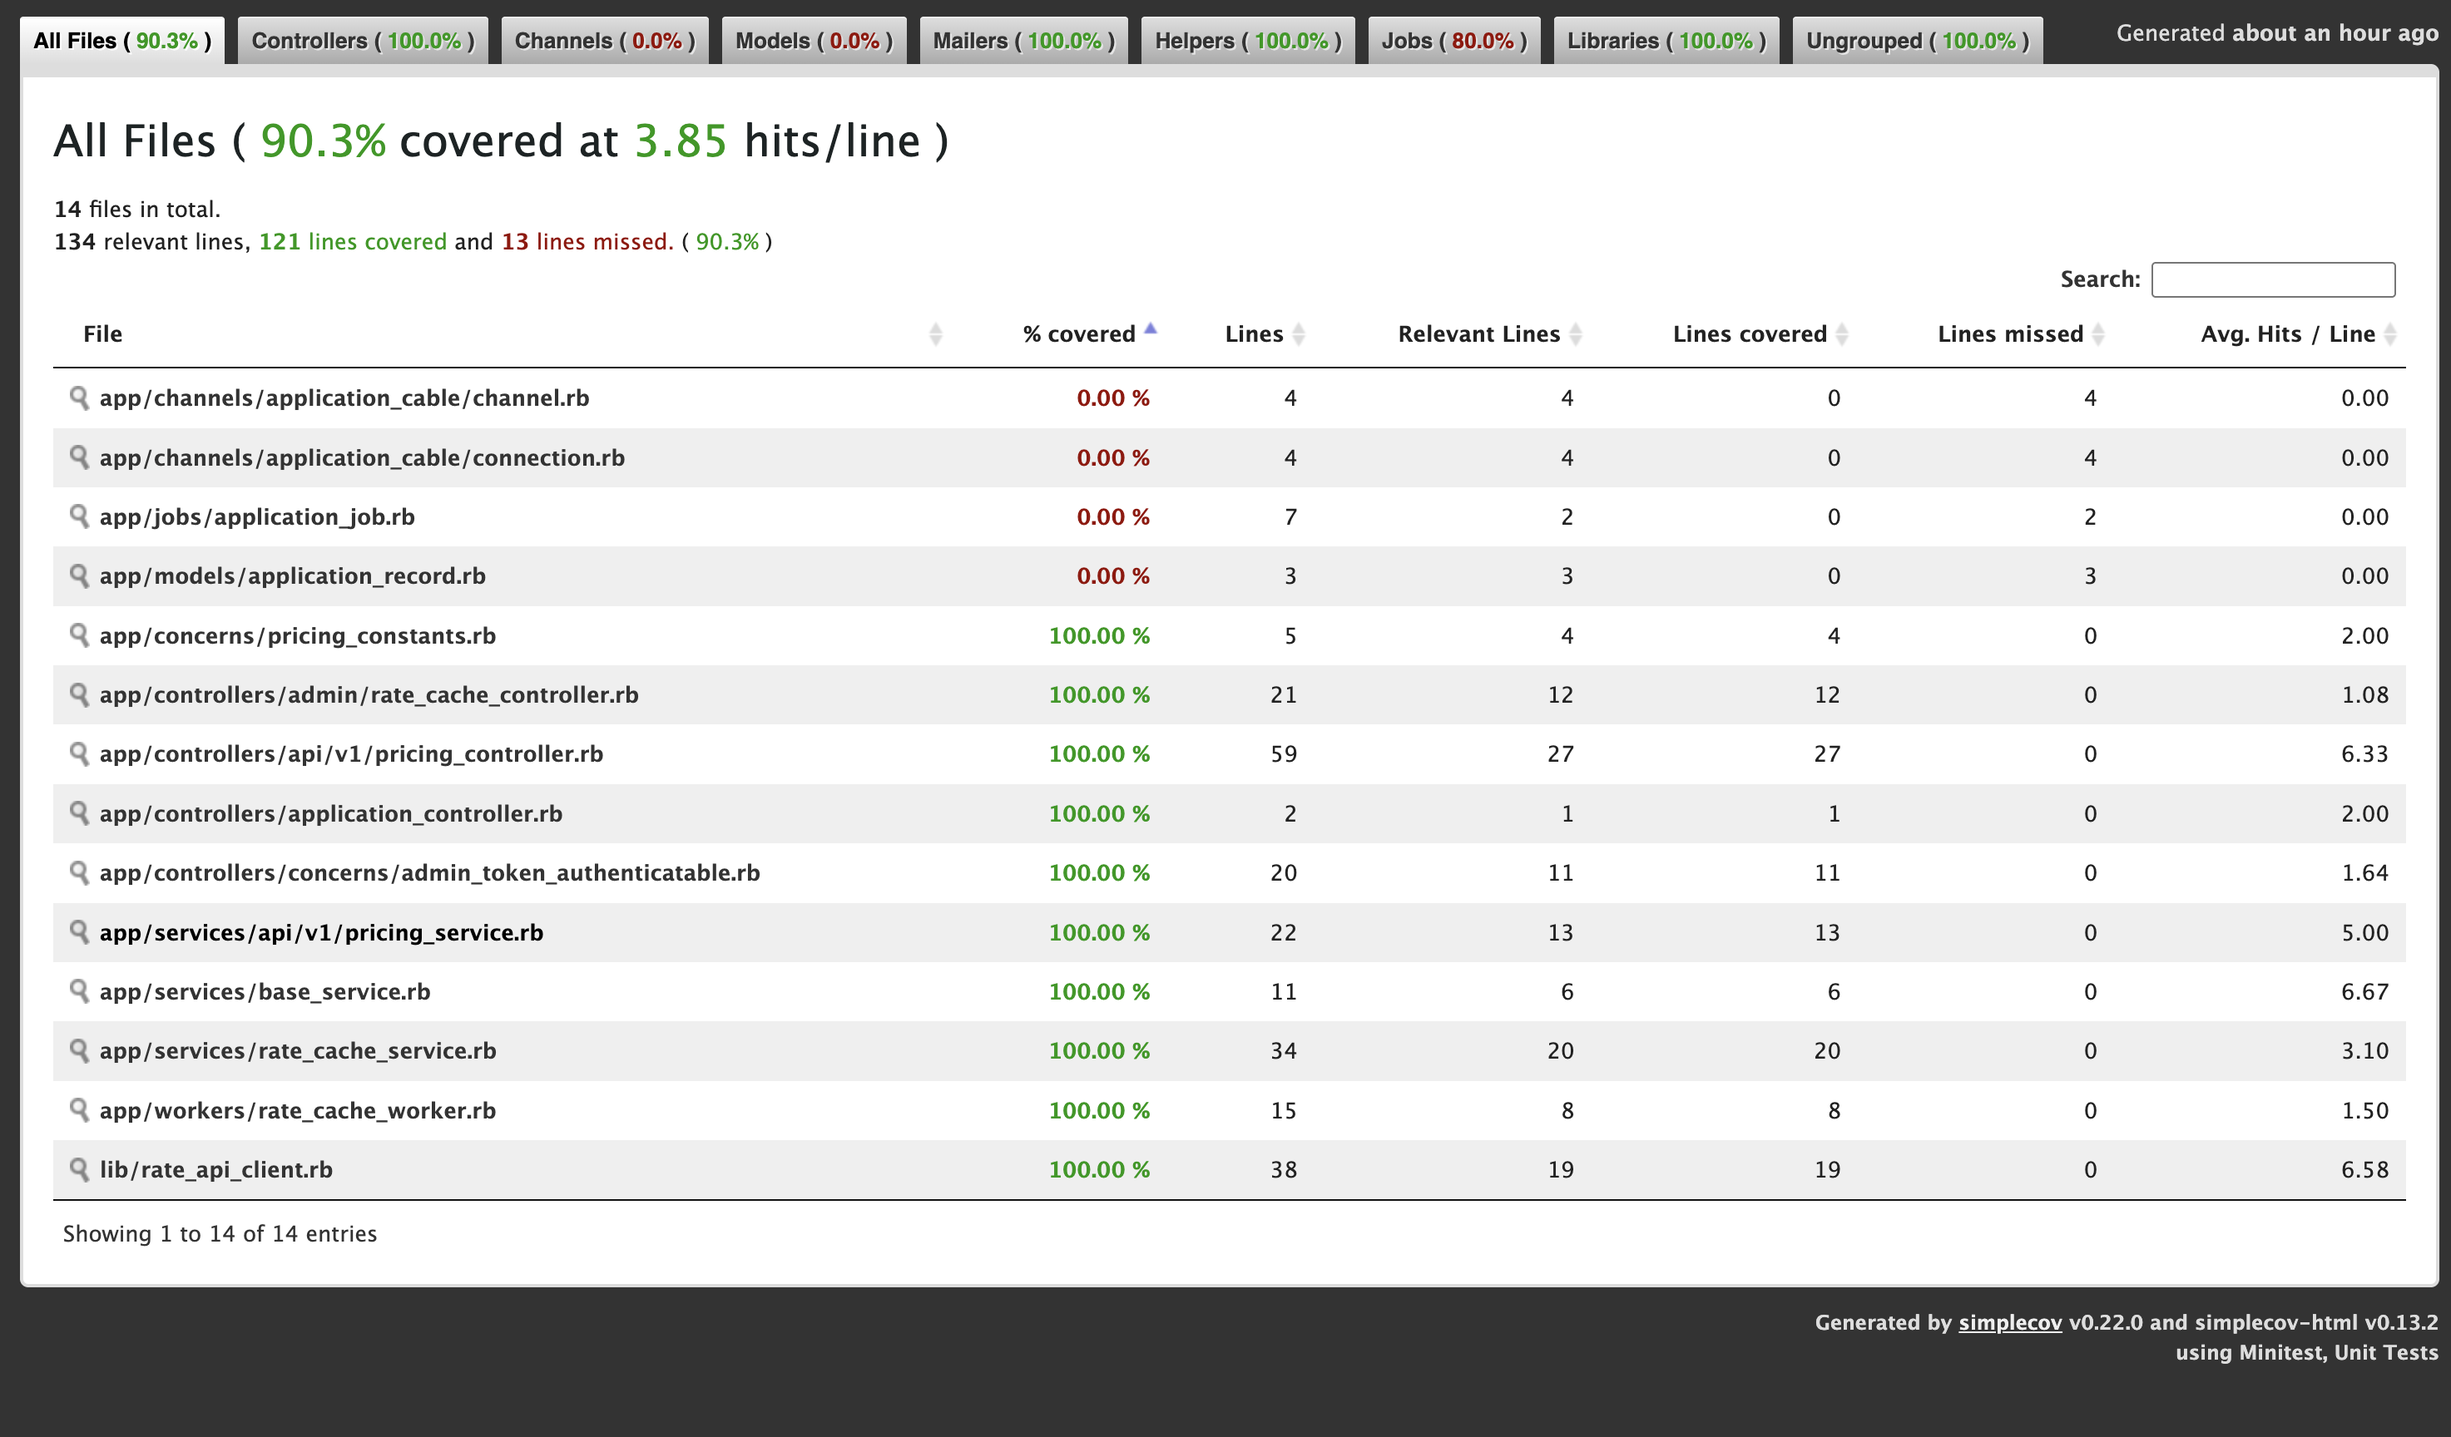
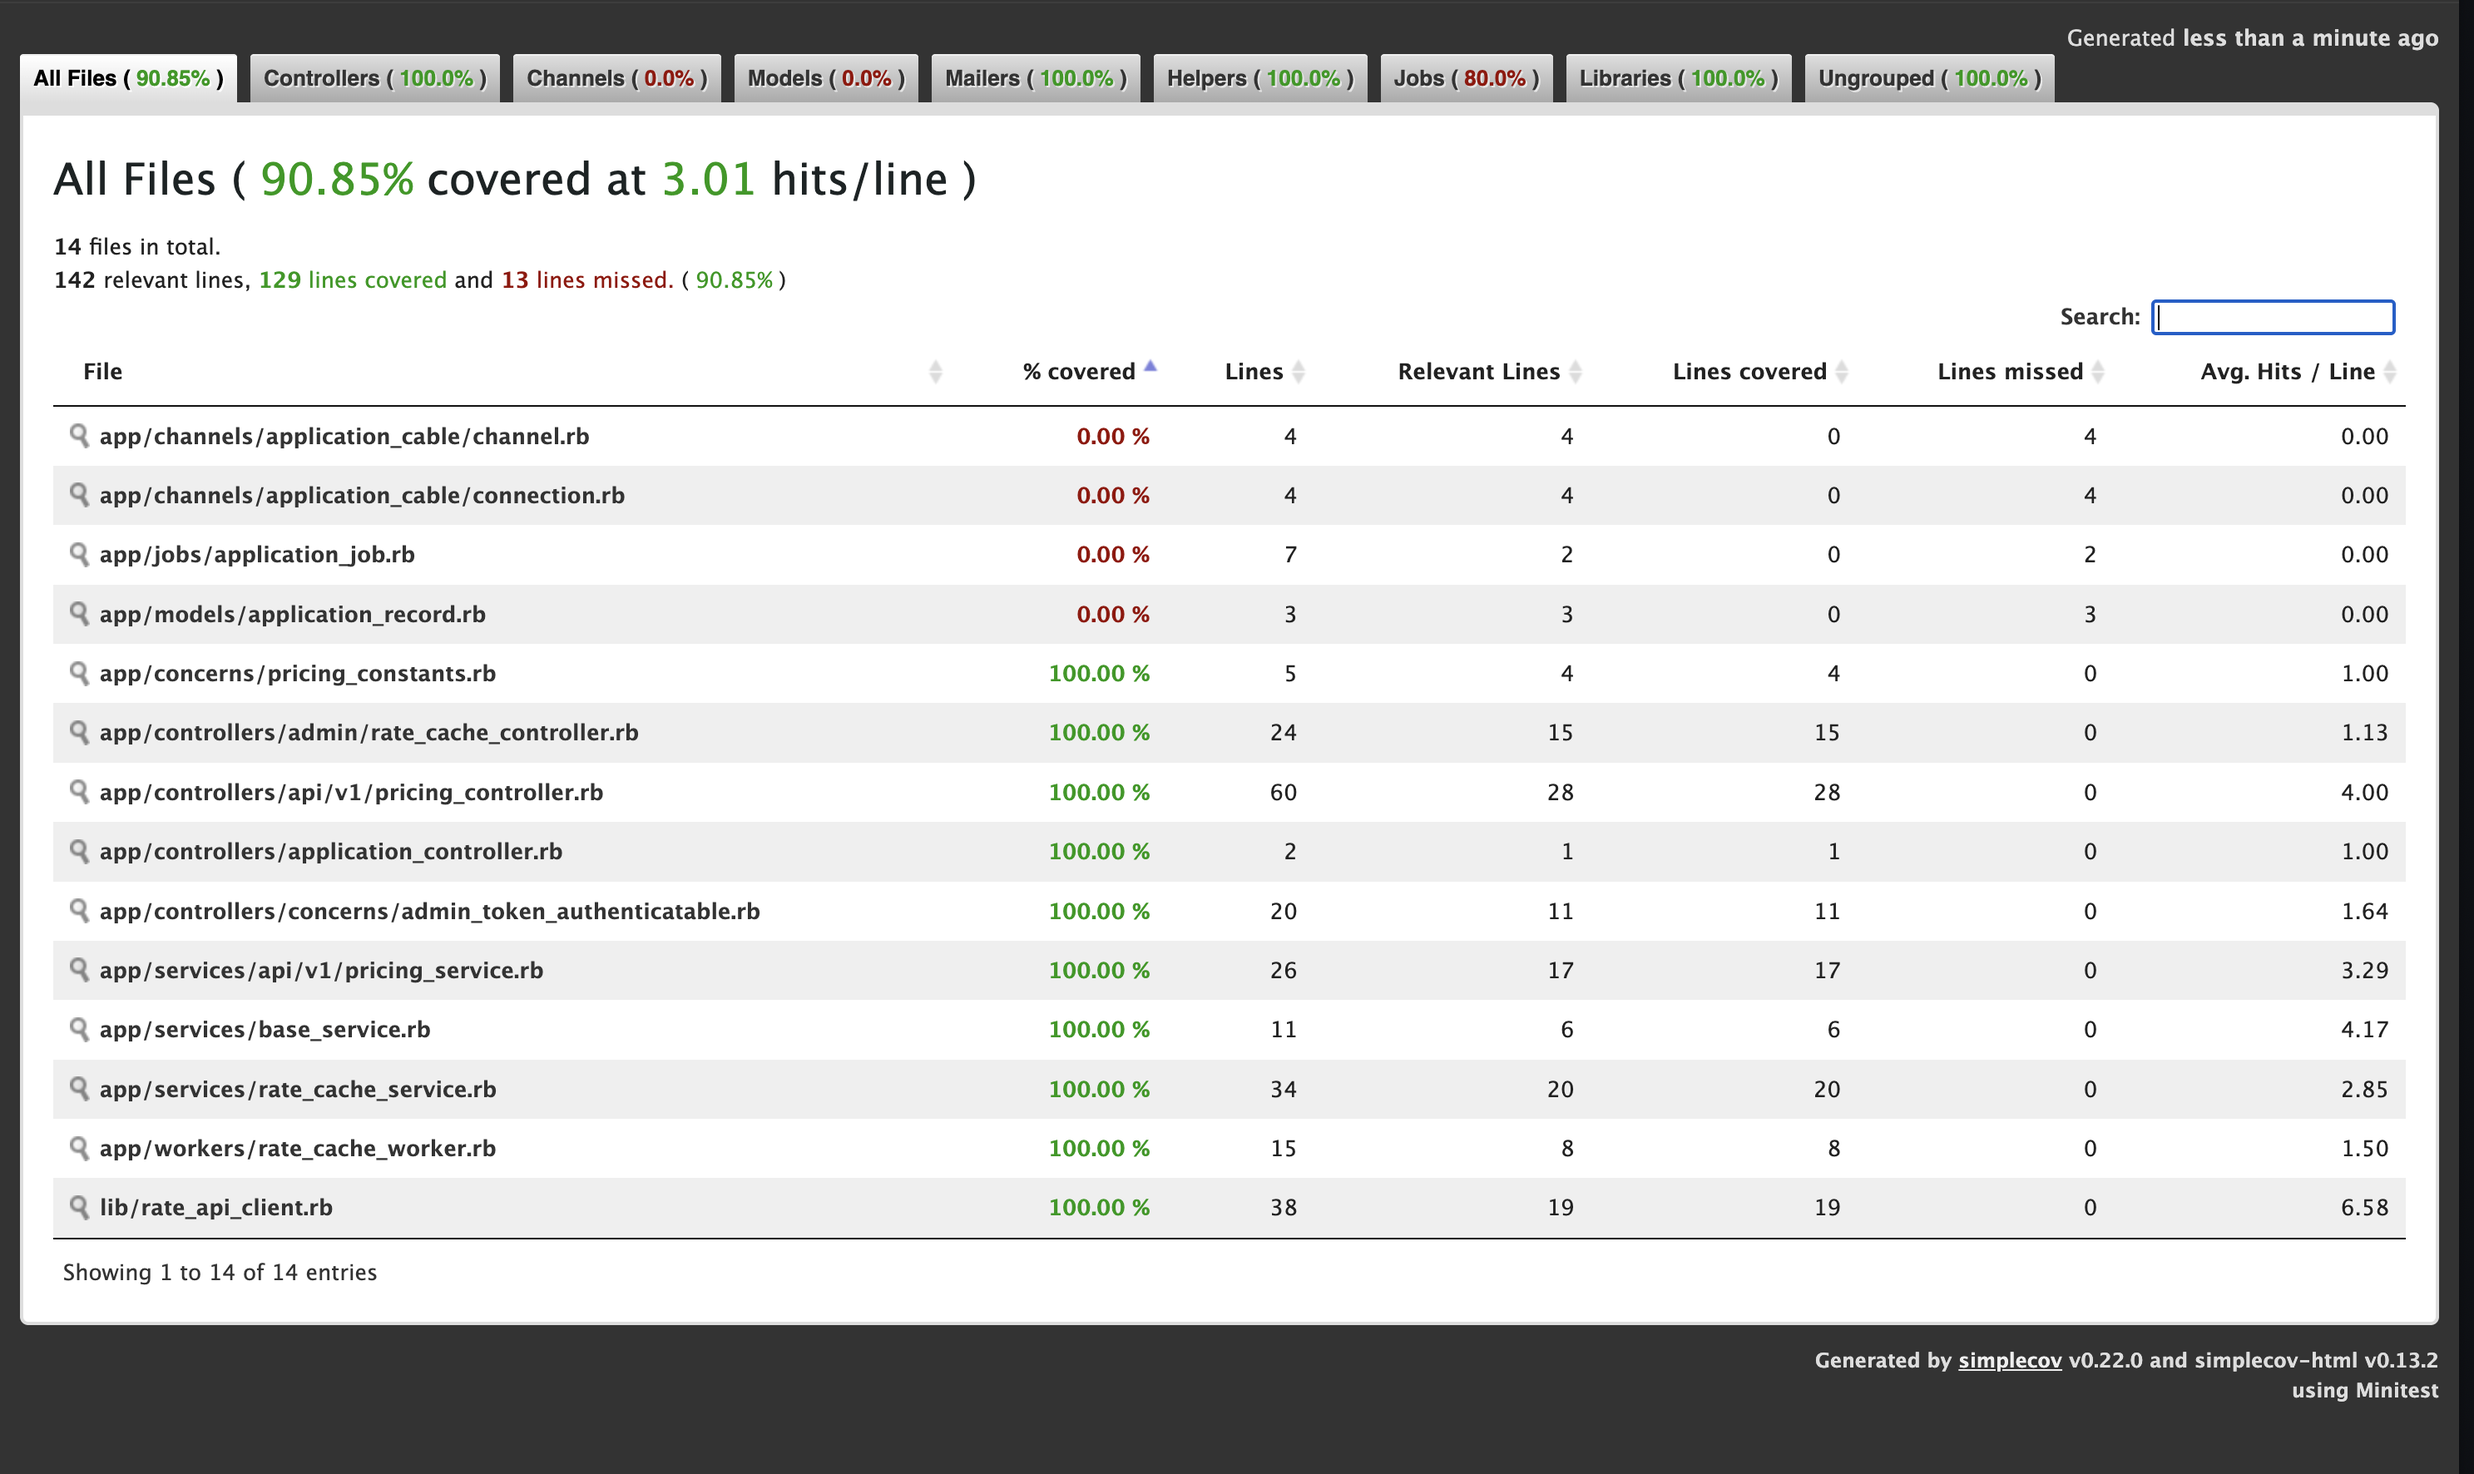
feat(pricing): add some logging

diff --git a/app/services/api/v1/pricing_service.rb b/app/services/api/v1/pricing_service.rb
@@ -7,15 +7,19 @@ module Api::V1
     end
 
     def run
+      Rails.logger.info("[Api::V1::PricingService] Pricing Lookup: #{@period}.#{@hotel}.#{@room}")
       rate_cache_service = RateCacheService.new
       rate = rate_cache_service.get_rate(@period, @hotel, @room)
 
+      Rails.logger.info("[Api::V1::PricingService] Pricing Result for #{@period}.#{@hotel}.#{@room}: #{rate}")
       if rate
         @result = rate
       else
+        Rails.logger.info("[Api::V1::PricingService] Pricing Result for #{@period}.#{@hotel}.#{@room}: #{rate}")
         errors << "RATE_NOT_FOUND"
       end
     rescue StandardError => e
+      Rails.logger.info("[Api::V1::PricingService] Pricing Result for #{@period}.#{@hotel}.#{@room}: #{rate}")
       errors << e.message
     end
   end

diff --git a/app/controllers/admin/rate_cache_controller.rb b/app/controllers/admin/rate_cache_controller.rb
@@ -5,13 +5,16 @@ module Admin
     include AdminTokenAuthenticatable
 
     def refresh
+      Rails.logger.info("[Admin::RateCacheController] Begin Resetting Rate Cache")
       # Reset the Queue
       Sidekiq::Queue.new.clear
       Sidekiq::ScheduledSet.new.clear
       Sidekiq::RetrySet.new.clear
       
+      Rails.logger.info("[Admin::RateCacheController] Sidekiq queues cleared, Now Reseting Rate Cache")
       RateCacheService.new.set_rate
       
+      Rails.logger.info("[Admin::RateCacheController] Rate Cache Reset, Scheduling Next Run")
       RateCacheWorker.perform_in(5.minutes)
       render json: { message: "Rate cache refreshed and Sidekiq queues cleared" }, status: :ok
     rescue StandardError => e

diff --git a/app/controllers/api/v1/pricing_controller.rb b/app/controllers/api/v1/pricing_controller.rb
@@ -8,6 +8,7 @@ class Api::V1::PricingController < ApplicationController
     hotel  = params[:hotel]
     room   = params[:room]
 
+    Rails.logger.info("[Api::V1::PricingController] Request for pricing for: #{period}.#{hotel}.#{room}")
     service = Api::V1::PricingService.new(period:, hotel:, room:)
     service.run
 

diff --git a/README.md b/README.md
@@ -98,7 +98,7 @@ The solution relies on a test-driven approach to ensure correct functionality:
 ## Test Coverage
 Testing is framework is using the built in Test in Rails. `SimpleCov` is used to measure the test coverage.
 
-Test Coverage is 90%, with the remaining coverage are the files that are not used in the solution (bootstraped files).
+Test Coverage is ~90%, with the remaining coverage are the files that are not used in the solution (bootstraped files).
 
 ![Test Coverage](./img/Test%20Coverage.png)
 
